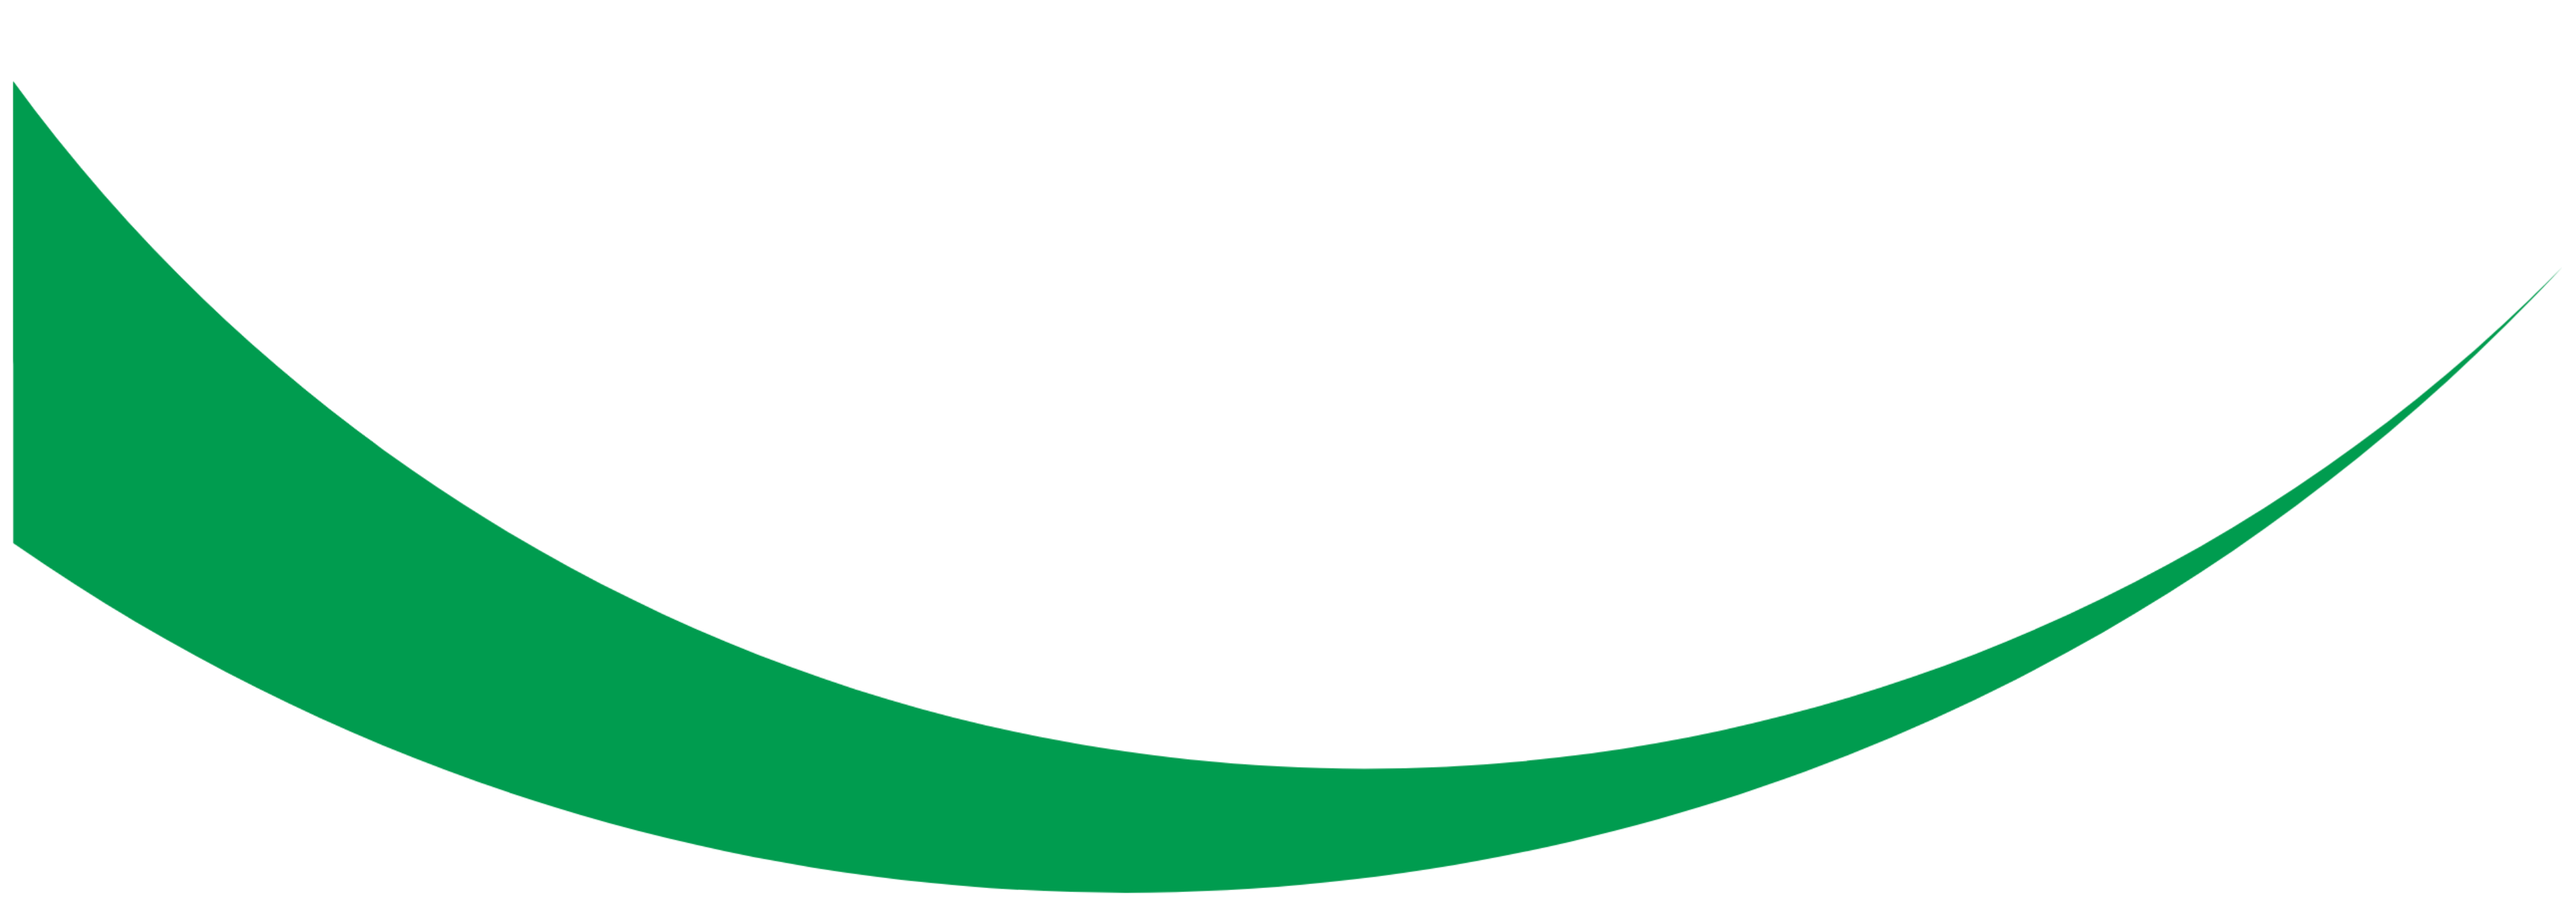
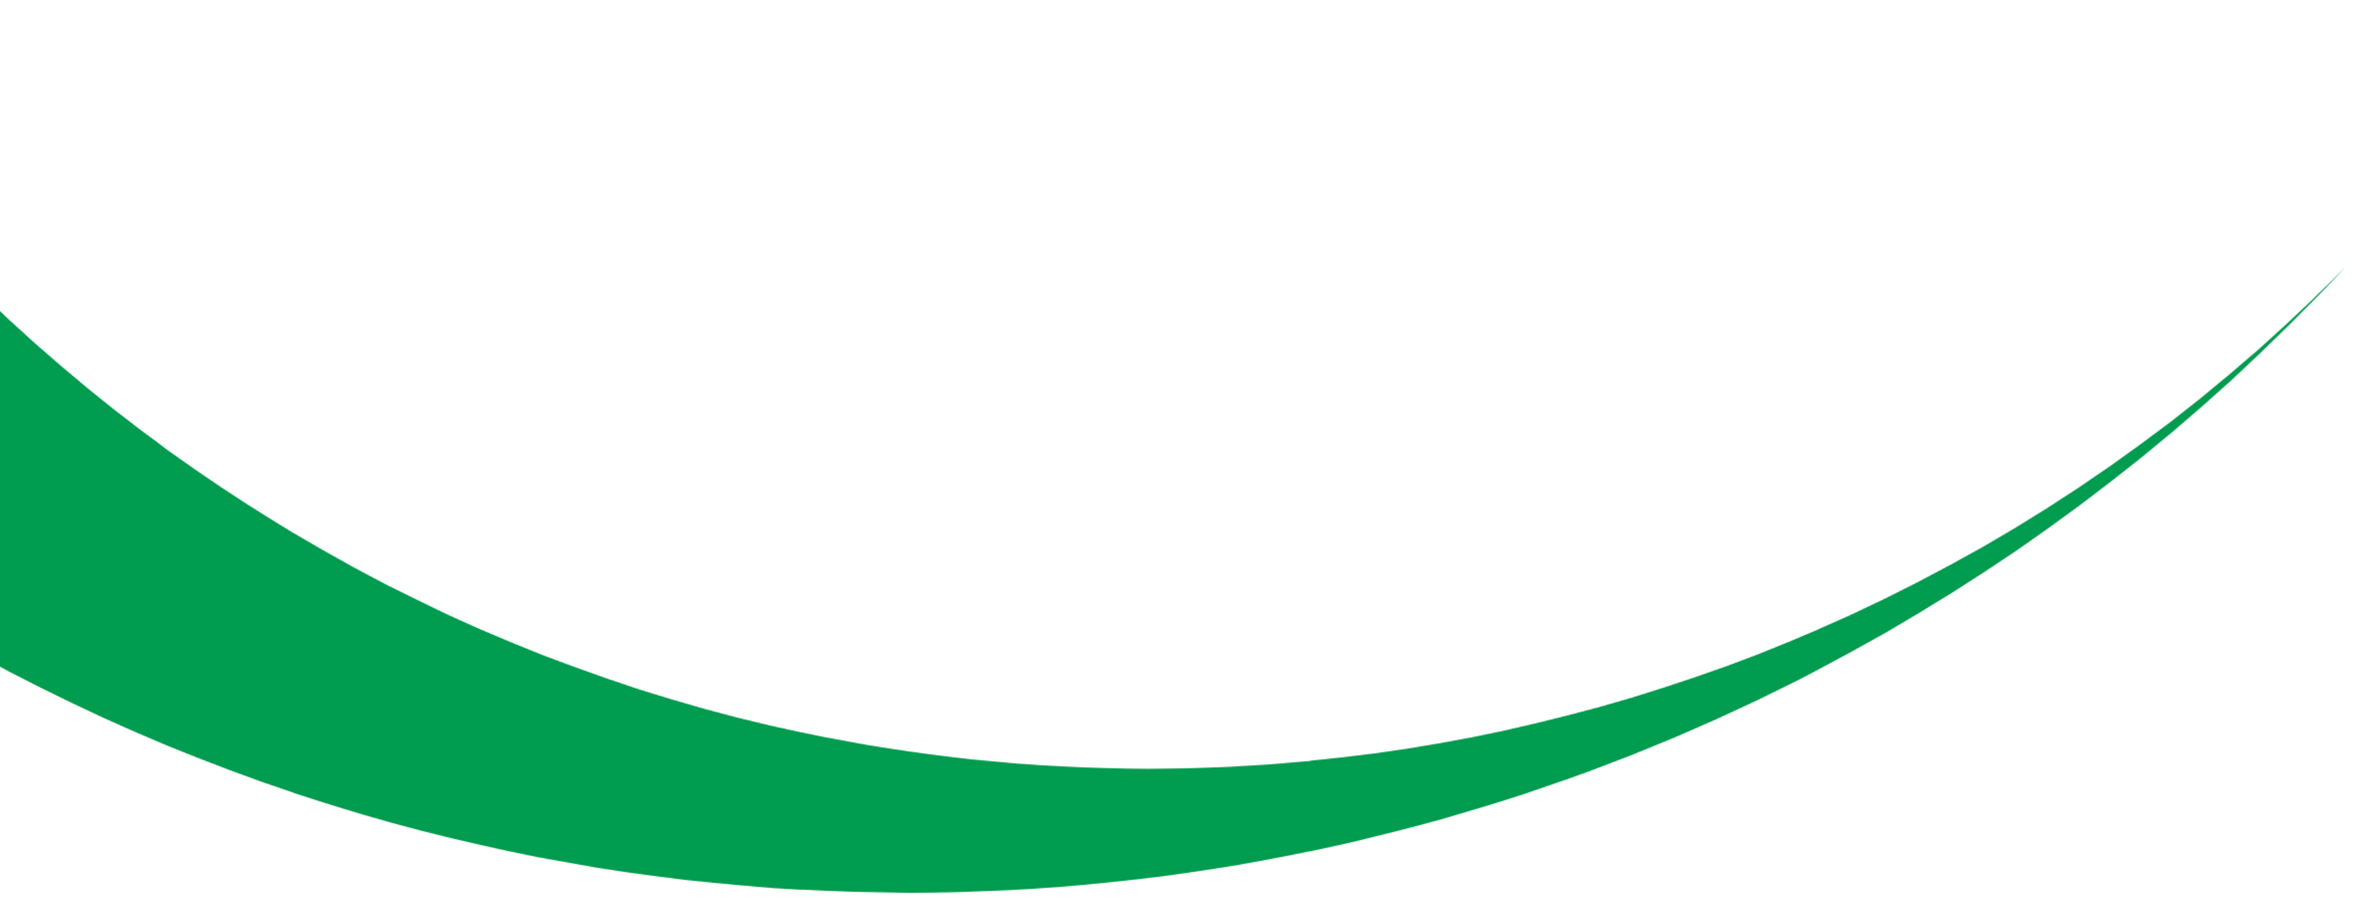
Update HomeScreen and MwanInfoApp layout; add new image assets
- Increased the title size in HomeScreen for better visibility.
- Enhanced layout structure in MwanInfoApp for improved responsiveness.
- Added new image asset pattreno.png and updated existing pattren.png.

diff --git a/src/apps/MwanInfoApp/MwanInfoApp.jsx b/src/apps/MwanInfoApp/MwanInfoApp.jsx
@@ -34,12 +34,12 @@ const MwanInfoApp = ({ onBack }) => {
   };
 
   return (
-    <div className="min-h-screen relative bg-mwan-dark">
+    <div className="min-h-screen relative bg-mwan-dark flex flex-col">
       <BrandBackdrop />
-      <div className="relative z-10">
+      <div className="relative z-10 flex-1 flex flex-col">
         <Header />
         
-        <div className="container mx-auto px-6 pt-32 pb-8">
+        <div className="flex-1 container mx-auto px-6 pt-32 pb-32 flex flex-col justify-end">
         {/* Content Area */}
         <div className="animate-fade-in">
           {pdfViewData ? (

diff --git a/src/apps/MwanInfoApp/HomeScreen.jsx b/src/apps/MwanInfoApp/HomeScreen.jsx
@@ -43,7 +43,7 @@ const HomeScreen = ({ onNavigate }) => {
     <div className="max-w-6xl mx-auto horizontal-layout">
       {/* Title */}
       <div className="text-center mb-12 animate-slide-up">
-        <h2 className="text-5xl font-extrabold mb-4 text-white font-ar">
+        <h2 className="text-7xl font-extrabold mb-4 text-white font-ar">
           اكتشف موان
         </h2>
         <p className="text-xl text-mwan-light/80">

diff --git a/src/components/BrandBackdrop.jsx b/src/components/BrandBackdrop.jsx
@@ -28,7 +28,7 @@ const BrandBackdrop = () => {
         <img
           src={pattern}
           alt=""
-          className="absolute bottom-5 lg:-bottom-10 -left-10 w-full h-auto max-w-none opacity-50 select-none"
+          className="absolute bottom-5 lg:bottom-10 -left-10 w-full h-auto max-w-none opacity-50 select-none"
         />
       </div>
     </>
